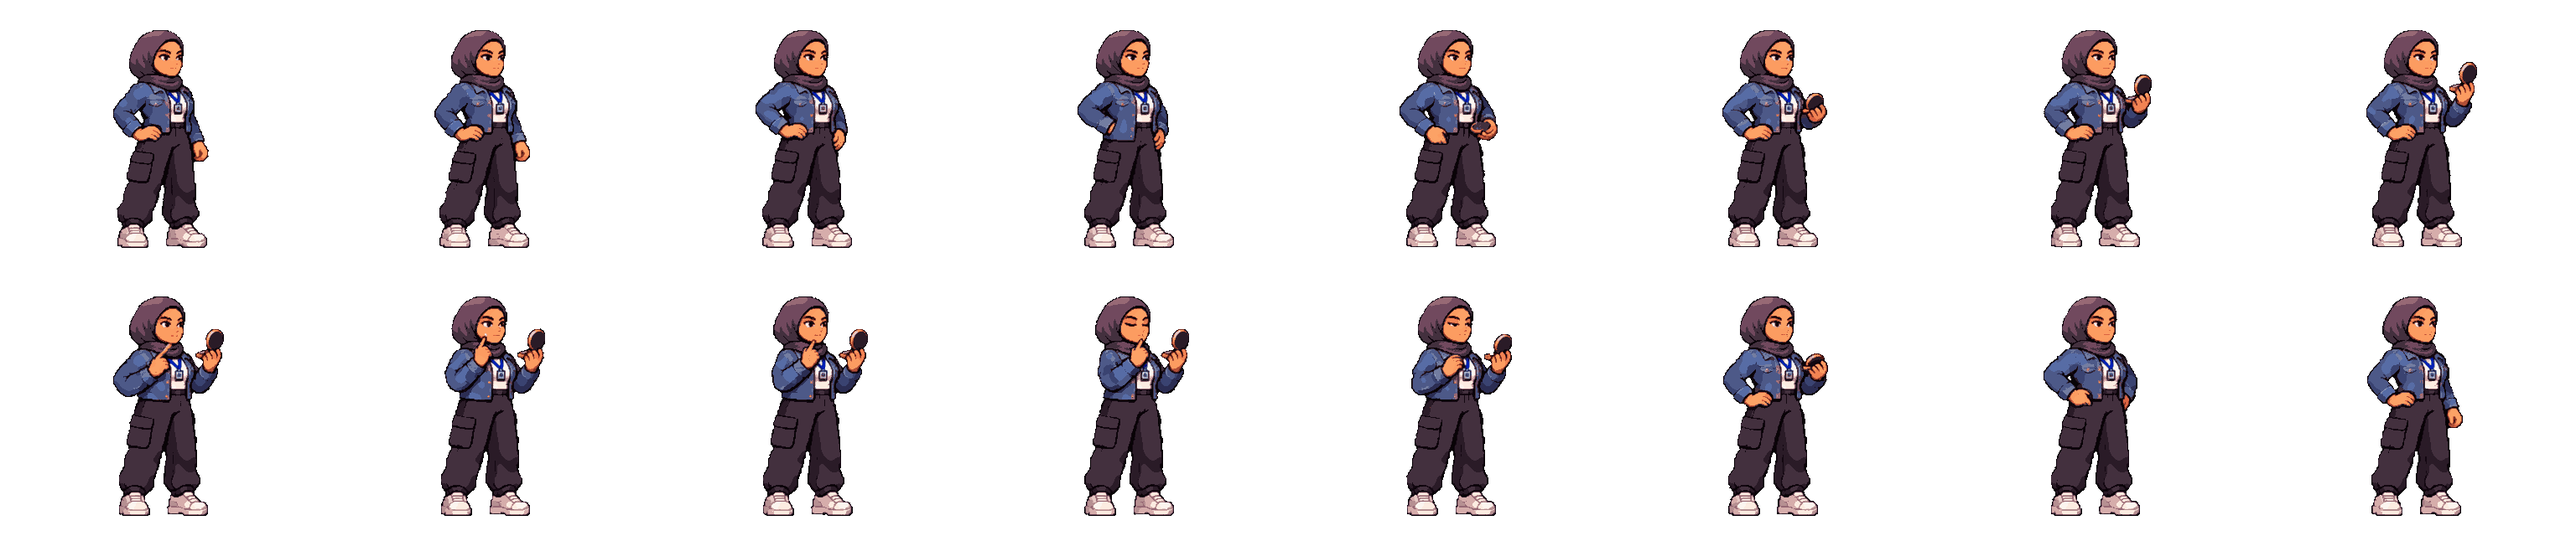
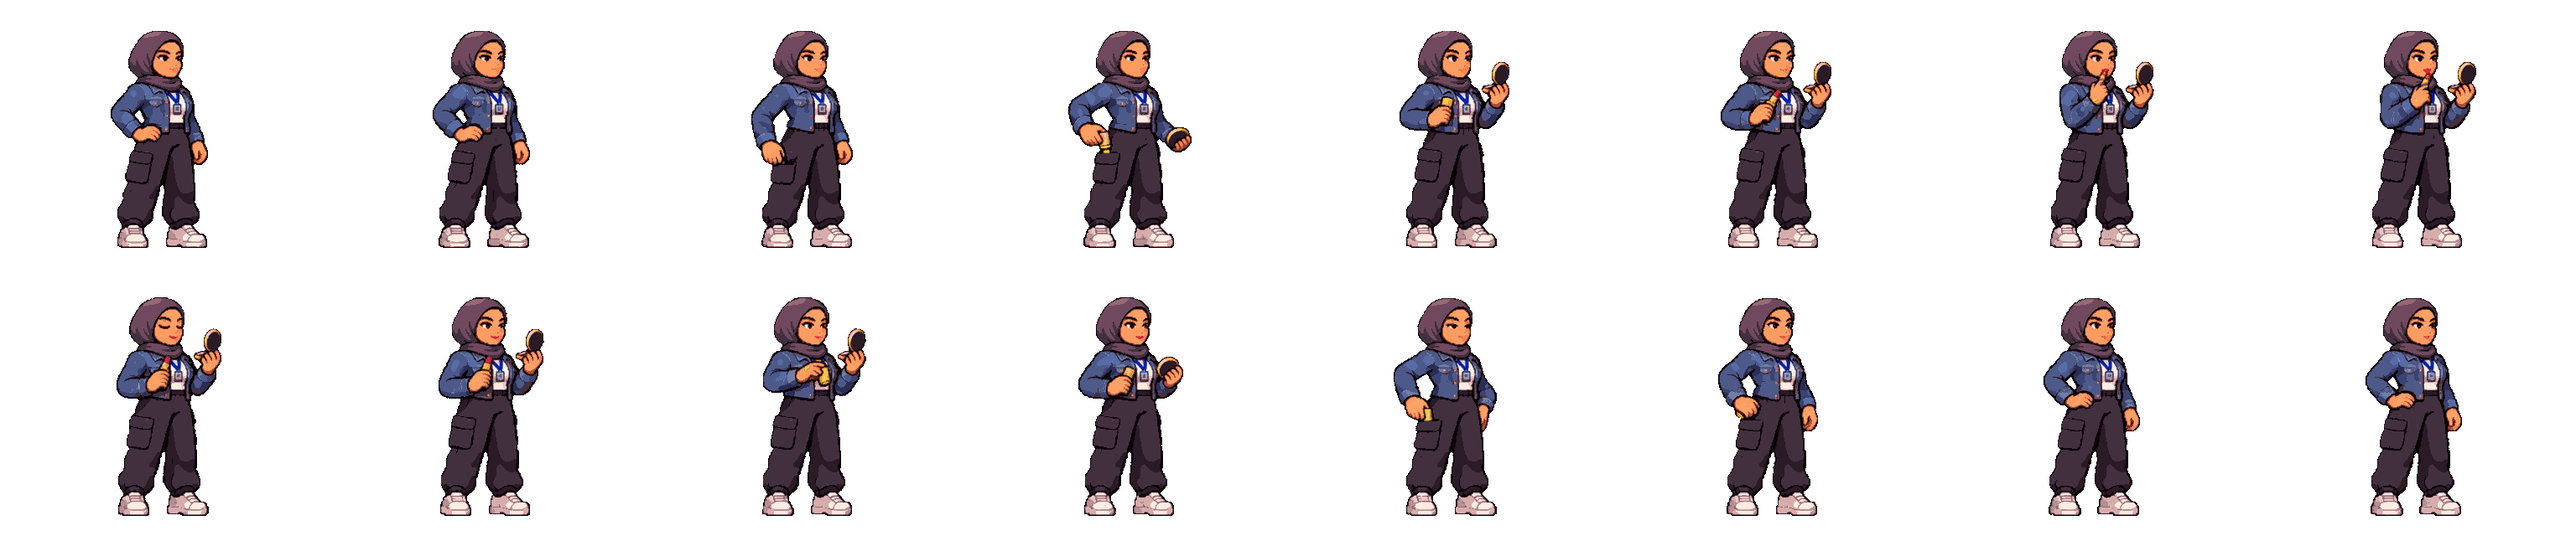
Zee makeup idle: visible lipstick from cargo pocket, no reach inside jacket

diff --git a/src/main.js b/src/main.js
@@ -1,11 +1,11 @@
 // Game shell: loads Zee, runs the loop, draws the placeholder office + HUD, wires pause / touch UI / animation viewer.
-import { CONFIG } from './config.js?v=202611212026';
-import { loadCharacter, VERSION } from './assets.js?v=202611212026';
-import { Input } from './input.js?v=202611212026';
-import { Zee } from './zee.js?v=202611212026';
-import { Game } from './game.js?v=202611212026';
-import { ENEMY_IDS } from './enemy.js?v=202611212026';
-import { unlock } from './sfx.js?v=202611212026';
+import { CONFIG } from './config.js?v=202611212035';
+import { loadCharacter, VERSION } from './assets.js?v=202611212035';
+import { Input } from './input.js?v=202611212035';
+import { Zee } from './zee.js?v=202611212035';
+import { Game } from './game.js?v=202611212035';
+import { ENEMY_IDS } from './enemy.js?v=202611212035';
+import { unlock } from './sfx.js?v=202611212035';
 
 const { w: W, h: H } = CONFIG.view;
 const canvas = document.getElementById('game');

diff --git a/src/enemy.js b/src/enemy.js
@@ -1,9 +1,9 @@
 // Enemy: a fighter with a small brain. It lines up with Zee, flanks, chains combos, sidesteps her swings, punishes her recovery,
 // throws call-centre headsets, and (navy + sporty, the "heavies") grabs and throws her.
 // Art comes from assets/characters/<id>/ ; every enemy shares this one brain.
-import { CONFIG } from './config.js?v=202611212026';
-import { frameAt, drawAnim, silhouette } from './assets.js?v=202611212026';
-import { SOFT } from './zee.js?v=202611212026';
+import { CONFIG } from './config.js?v=202611212035';
+import { frameAt, drawAnim, silhouette } from './assets.js?v=202611212035';
+import { SOFT } from './zee.js?v=202611212035';
 
 const E = CONFIG.enemy;
 const rnd = (a, b) => a + Math.random() * (b - a);

diff --git a/src/game.js b/src/game.js
@@ -1,8 +1,8 @@
 // Game world: Zee + enemies, combat resolution, projectiles and all the "juice" (hit flash, sparks, shake, hit-stop, sound).
-import { CONFIG } from './config.js?v=202611212026';
-import { Enemy } from './enemy.js?v=202611212026';
-import { SOFT } from './zee.js?v=202611212026';
-import { sfx } from './sfx.js?v=202611212026';
+import { CONFIG } from './config.js?v=202611212035';
+import { Enemy } from './enemy.js?v=202611212035';
+import { SOFT } from './zee.js?v=202611212035';
+import { sfx } from './sfx.js?v=202611212035';
 
 const E = CONFIG.enemy;
 

diff --git a/src/zee.js b/src/zee.js
@@ -1,7 +1,7 @@
 // Zee: the player character. A small state machine driven by input actions.
 // Movement, combat timing, and animation selection live here; art comes from the manifest (assets.js).
-import { CONFIG } from './config.js?v=202611212026';
-import { frameAt, drawAnim, silhouette } from './assets.js?v=202611212026';
+import { CONFIG } from './config.js?v=202611212035';
+import { frameAt, drawAnim, silhouette } from './assets.js?v=202611212035';
 
 const C = CONFIG.zee;
 const FREE = new Set(['idle', 'walk', 'run', 'makeup']);

diff --git a/src/assets.js b/src/assets.js
@@ -1,6 +1,6 @@
 // Loads a character's manifest + strips and turns them into ready-to-play animation objects.
 // To swap art, replace the PNG strips / manifest in assets/characters/<name>/ - no code changes needed.
-import { CONFIG } from './config.js?v=202611212026';
+import { CONFIG } from './config.js?v=202611212035';
 
 // Release stamp, taken from this module's own URL (?v=...): every release uses new URLs so browsers never serve stale files.
 export const VERSION = new URL(import.meta.url).searchParams.get('v') || 'dev';

diff --git a/src/input.js b/src/input.js
@@ -1,6 +1,6 @@
 // Unified input: keyboard on PC/laptop, floating joystick + buttons on touch devices.
 // The game only reads: input.axis (x,y in -1..1), input.run, and input.consume() (one-shot actions).
-import { CONFIG } from './config.js?v=202611212026';
+import { CONFIG } from './config.js?v=202611212035';
 
 export class Input {
   constructor(root = document) {

diff --git a/index.html b/index.html
@@ -125,7 +125,7 @@
 <div id="rotate"><div><h2>Rotate your phone</h2><p style="color:var(--mute)">This game plays in landscape.</p></div></div>
 <div id="loading">Loading Zee...</div>
 
-<script type="module" src="src/main.js?v=202611212026"></script>
+<script type="module" src="src/main.js?v=202611212035"></script>
 </body>
 </html>
 

diff --git a/HANDOFF.md b/HANDOFF.md
@@ -32,3 +32,4 @@ After any work, add a dated line under "Decisions and changes" and adjust "Next 
 - 2026-11-21: polish pass - body separation + pushback, white-pop/light-red hit flash, decluttered damage numbers, new HUD, enemies walk in from screen edges, enemies step back off a beaten Zee.
 - 2026-11-21: grabbed Zee struggles (shake + jolt per mash); enemies surround her (pick the emptier side, separate depth lanes), spawns alternate edges.
 - 2026-11-21: bot-played all 8 enemies to KO. Fixes: body separation 36px (no more sliding inside enemies mid-combo), softer white hit pop, enemy HP bar sits on a downed body, Zee's post-hit invulnerability is a soft pulse instead of vanishing.
+- 2026-11-21: Zee makeup idle redone (idle_makeup_v3): lipstick (gold case, red tip) from thigh cargo pocket, compact from back pocket, applies to lips in the mirror, wink, puts both away. build-zee rebuilds that strip alone with gold/red palette extras.
